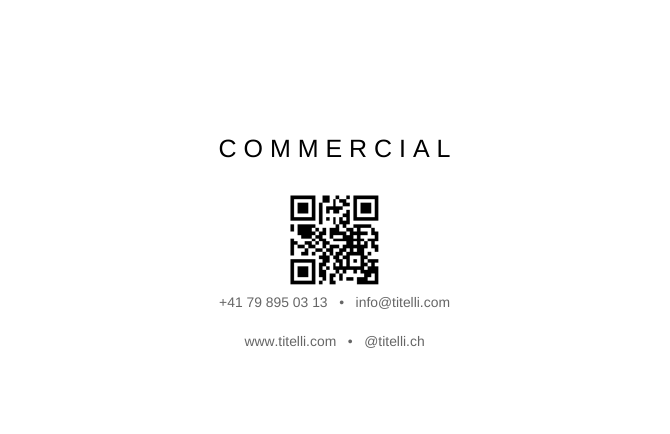
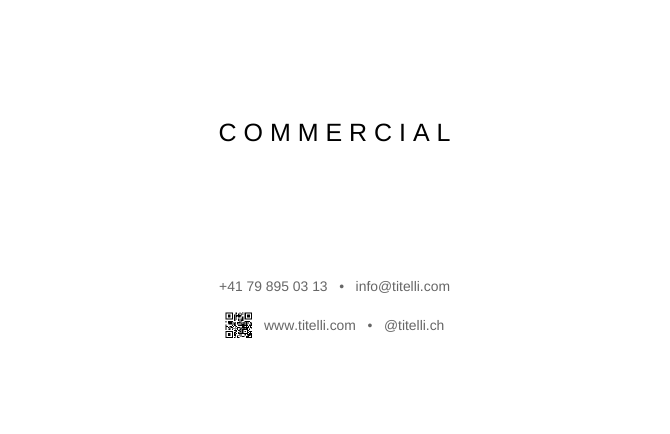
auto-commit for 51b4c580-b185-4214-825a-de82a78882e9

Changed region(s): [[0.3284, 0.4493, 0.6866, 0.8088], [0.3284, 0.2696, 0.6866, 0.3594]]

diff --git a/create_cards_v5.py b/create_cards_v5.py
@@ -1,0 +1,143 @@
+from reportlab.lib.pagesizes import mm
+from reportlab.pdfgen import canvas
+from reportlab.lib.colors import Color, black, white
+from reportlab.lib.utils import ImageReader
+import qrcode
+import os
+
+CARD_WIDTH = 85 * mm
+CARD_HEIGHT = 55 * mm
+
+# QR codes petits
+qr = qrcode.QRCode(version=1, box_size=6, border=1)
+qr.add_data("https://www.titelli.com")
+qr.make(fit=True)
+qr_white = qr.make_image(fill_color="white", back_color="black").resize((50, 50))
+qr_white.save("/app/backend/uploads/qr_mini_white.png")
+qr_black = qr.make_image(fill_color="black", back_color="white").resize((50, 50))
+qr_black.save("/app/backend/uploads/qr_mini_black.png")
+
+
+def create_front_card(c, is_white_version=False):
+    """Face avant - logo centré"""
+    if is_white_version:
+        c.setFillColor(white)
+    else:
+        c.setFillColor(black)
+    c.rect(0, 0, CARD_WIDTH, CARD_HEIGHT, fill=1, stroke=0)
+    
+    logo = ImageReader("/app/backend/uploads/logo_titelli_new.png")
+    logo_size = 32 * mm
+    x = (CARD_WIDTH - logo_size) / 2
+    y = (CARD_HEIGHT - logo_size) / 2
+    c.drawImage(logo, x, y, width=logo_size, height=logo_size, mask='auto')
+
+
+def create_back_leila(c, is_white_version=False):
+    """Carte Leila Hassini"""
+    if is_white_version:
+        c.setFillColor(white)
+        c.rect(0, 0, CARD_WIDTH, CARD_HEIGHT, fill=1, stroke=0)
+        main_color = black
+        secondary_color = Color(0.4, 0.4, 0.4)
+    else:
+        c.setFillColor(black)
+        c.rect(0, 0, CARD_WIDTH, CARD_HEIGHT, fill=1, stroke=0)
+        main_color = white
+        secondary_color = Color(0.65, 0.65, 0.65)
+    
+    center_x = CARD_WIDTH / 2
+    
+    # Nom centré
+    c.setFillColor(main_color)
+    c.setFont("Helvetica", 9)
+    c.drawCentredString(center_x, CARD_HEIGHT - 18 * mm, "Leila Hassini")
+    
+    c.setFillColor(secondary_color)
+    c.setFont("Helvetica", 5)
+    c.drawCentredString(center_x, CARD_HEIGHT - 22 * mm, "F O U N D E R")
+    
+    # Infos centrées
+    c.drawCentredString(center_x, 18 * mm, "+41 79 895 03 13   •   info@titelli.com")
+    c.drawCentredString(center_x, 13 * mm, "www.titelli.com   •   @titelli.ch")
+
+
+def create_back_commercial(c, is_white_version=False):
+    """Carte Commercial - MEME FORMAT que Founder, QR petit comme icône"""
+    if is_white_version:
+        c.setFillColor(white)
+        c.rect(0, 0, CARD_WIDTH, CARD_HEIGHT, fill=1, stroke=0)
+        main_color = black
+        secondary_color = Color(0.4, 0.4, 0.4)
+        qr_path = "/app/backend/uploads/qr_mini_black.png"
+    else:
+        c.setFillColor(black)
+        c.rect(0, 0, CARD_WIDTH, CARD_HEIGHT, fill=1, stroke=0)
+        main_color = white
+        secondary_color = Color(0.65, 0.65, 0.65)
+        qr_path = "/app/backend/uploads/qr_mini_white.png"
+    
+    center_x = CARD_WIDTH / 2
+    
+    # COMMERCIAL centré (même position que le nom sur carte Founder)
+    c.setFillColor(main_color)
+    c.setFont("Helvetica", 9)
+    c.drawCentredString(center_x, CARD_HEIGHT - 18 * mm, "C O M M E R C I A L")
+    
+    # Ligne vide (pour garder même espacement que Founder)
+    
+    # Infos - même format que Founder
+    c.setFillColor(secondary_color)
+    c.setFont("Helvetica", 5)
+    c.drawCentredString(center_x, 18 * mm, "+41 79 895 03 13   •   info@titelli.com")
+    
+    # Ligne site avec QR mini comme icône devant
+    # Calculer position pour centrer "QR www.titelli.com • @titelli.ch"
+    text_site = "www.titelli.com   •   @titelli.ch"
+    text_width = c.stringWidth(text_site, "Helvetica", 5)
+    qr_size = 3.5 * mm  # Petit QR comme icône
+    total_width = qr_size + 1.5 * mm + text_width
+    start_x = (CARD_WIDTH - total_width) / 2
+    
+    # QR mini
+    qr = ImageReader(qr_path)
+    c.drawImage(qr, start_x, 12 * mm, width=qr_size, height=qr_size, mask='auto')
+    
+    # Texte après QR
+    c.drawString(start_x + qr_size + 1.5 * mm, 13 * mm, text_site)
+
+
+def create_pdf(output_path):
+    c = canvas.Canvas(output_path, pagesize=(CARD_WIDTH, CARD_HEIGHT))
+    
+    # LEILA
+    create_front_card(c, False)
+    c.showPage()
+    create_back_leila(c, False)
+    c.showPage()
+    create_front_card(c, True)
+    c.showPage()
+    create_back_leila(c, True)
+    c.showPage()
+    
+    # COMMERCIAL
+    create_front_card(c, False)
+    c.showPage()
+    create_back_commercial(c, False)
+    c.showPage()
+    create_front_card(c, True)
+    c.showPage()
+    create_back_commercial(c, True)
+    
+    c.save()
+    print(f"✅ {output_path}")
+
+
+if __name__ == "__main__":
+    create_pdf("/app/backend/uploads/cartes_finales.pdf")
+    
+    from pdf2image import convert_from_path
+    imgs = convert_from_path("/app/backend/uploads/cartes_finales.pdf", dpi=200)
+    for i, img in enumerate(imgs):
+        img.save(f"/app/backend/uploads/preview_{i+1}.png", "PNG")
+    print("✅ Done")
